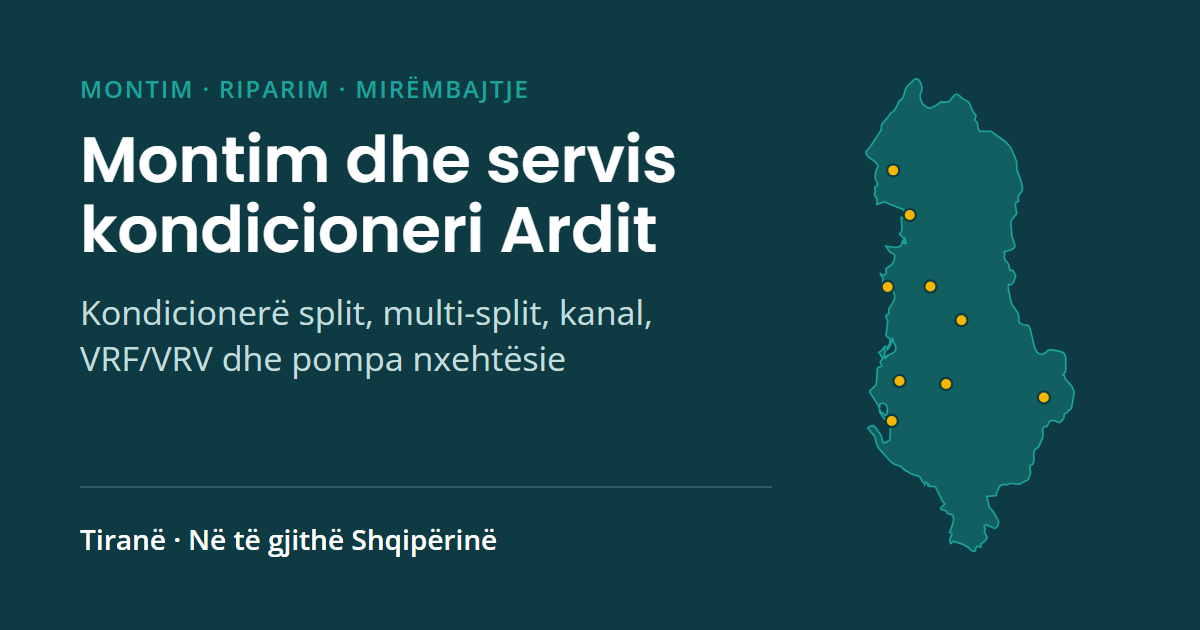
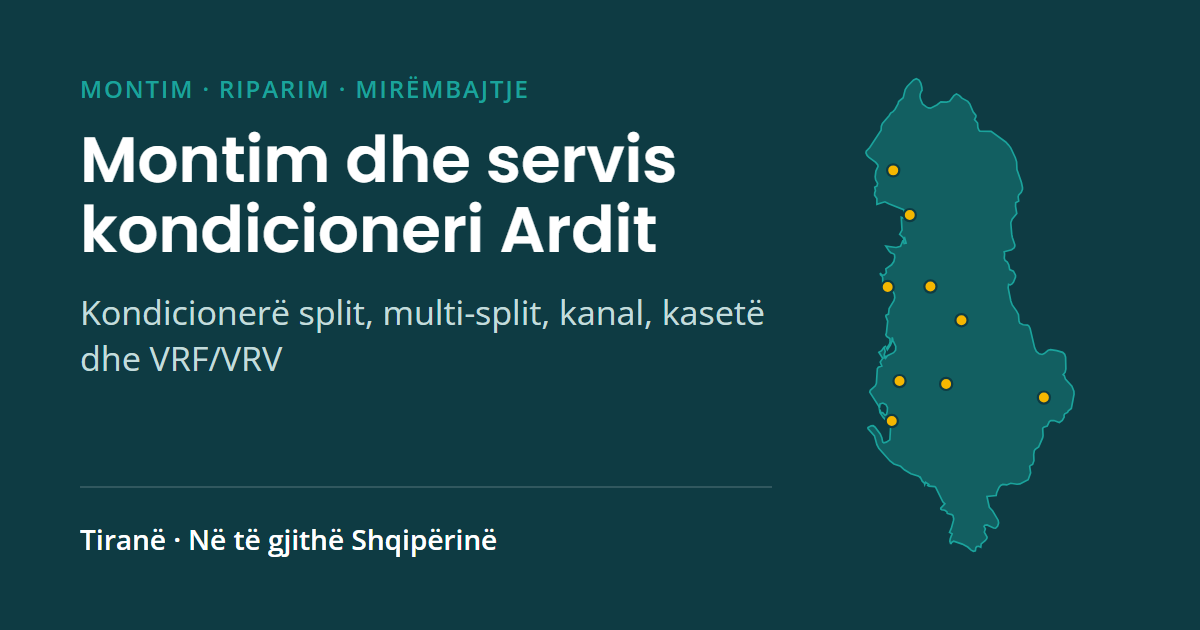
feat(sherbimet): hiqen pompat e nxehtësisë dhe kontratat e mirëmbajtjes
- Hiqen shërbimet pompa-nxehtesie dhe kontrata-mirembajtjeje-per-biznese
  me fotot shembull; mbeten 8 shërbime
- Çmimi i pastrimit mbetet te faqja e çmimeve, pa lidhje shërbimi
- Projekti shembull 6 bëhet restorant me dysheme-tavan; hiqet sistemi
  "pompë nxehtësie" nga filtrat
- Përditësohen përshkrimet e faqeve, dy artikuj dhe imazhi për ndarje

Changed region(s): [[0.0617, 0.5429, 0.4625, 0.6032], [0.555, 0.4825, 0.6475, 0.5127]]

diff --git a/src/app/data/article-html.generated.ts b/src/app/data/article-html.generated.ts
@@ -1,9 +1,9 @@
 // Gjeneruar nga scripts/build-content.ts nga src/content/keshilla/*.md. Mos e ndrysho me dorë.
 /** HTML-ja e çdo artikulli sipas slug-ut, e ngarkuar vetëm nga faqja e artikullit. */
 export const ARTICLE_HTML: Record<string, string> = {
-  "a-ia-vlen-ngrohja-me-kondicioner-ne-dimer": "<p>Një kondicioner nuk e &quot;prodhon&quot; nxehtësinë si një rezistencë: e merr nga ajri jashtë dhe e sjell brenda. Ky është parimi i pompës së nxehtësisë, dhe për këtë arsye, për të njëjtën sasi nxehtësie, harxhon zakonisht shumë më pak rrymë se një ngrohës elektrik me rezistencë.</p>\n<h2>Kur ia vlen</h2>\n<ul><li><strong>Në zonat me dimër të butë</strong>, si bregdeti dhe ultësirat, një aparat inverter i mirë ngroh me efikasitet gjatë gjithë sezonit.</li><li><strong>Kur aparati është me fuqinë e duhur.</strong> Një aparat i vogël punon gjithë kohën në maksimum dhe efikasiteti bie.</li><li><strong>Kur ambienti ka izolim të arsyeshëm.</strong> Dritaret që lënë ajër dhe muret e pa izoluara e humbin nxehtësinë pavarësisht aparatit.</li></ul>\n<h2>Kufizimet</h2>\n<p>Kur temperatura jashtë bie shumë, aparati ka më pak nxehtësi për të marrë dhe efikasiteti ulet. Në zonat malore ose me dimër të ashpër ka rëndësi të zgjidhni një model që e ruan fuqinë në temperatura të ulëta; prodhuesit e tregojnë këtë në specifikimet teknike.</p>\n<p>Gjatë dimrit aparati bën edhe cikle të shkurtra shkrirjeje të akullit në njësinë e jashtme. Është normale që për pak minuta të mos fryjë ajër të ngrohtë.</p>\n<h2>Si të zgjidhni</h2>\n<p>Shikoni vlerën <strong>SCOP</strong> (efikasiteti sezonal në ngrohje) në etiketën e energjisë dhe fuqinë në ngrohje, jo vetëm në ftohje. Për shtëpi me ngrohje qendrore ekziston edhe zgjidhja e <a href=\"/sherbimet/pompa-nxehtesie\">pompës së nxehtësisë</a> që ngroh ujin e radiatorëve.</p>\n<p>Nëse nuk jeni të sigurt, ustai e vlerëson ambientin dhe ju këshillon për modelin dhe fuqinë e duhur.</p>",
+  "a-ia-vlen-ngrohja-me-kondicioner-ne-dimer": "<p>Një kondicioner nuk e &quot;prodhon&quot; nxehtësinë si një rezistencë: e merr nga ajri jashtë dhe e sjell brenda. Ky është parimi i pompës së nxehtësisë, dhe për këtë arsye, për të njëjtën sasi nxehtësie, harxhon zakonisht shumë më pak rrymë se një ngrohës elektrik me rezistencë.</p>\n<h2>Kur ia vlen</h2>\n<ul><li><strong>Në zonat me dimër të butë</strong>, si bregdeti dhe ultësirat, një aparat inverter i mirë ngroh me efikasitet gjatë gjithë sezonit.</li><li><strong>Kur aparati është me fuqinë e duhur.</strong> Një aparat i vogël punon gjithë kohën në maksimum dhe efikasiteti bie.</li><li><strong>Kur ambienti ka izolim të arsyeshëm.</strong> Dritaret që lënë ajër dhe muret e pa izoluara e humbin nxehtësinë pavarësisht aparatit.</li></ul>\n<h2>Kufizimet</h2>\n<p>Kur temperatura jashtë bie shumë, aparati ka më pak nxehtësi për të marrë dhe efikasiteti ulet. Në zonat malore ose me dimër të ashpër ka rëndësi të zgjidhni një model që e ruan fuqinë në temperatura të ulëta; prodhuesit e tregojnë këtë në specifikimet teknike.</p>\n<p>Gjatë dimrit aparati bën edhe cikle të shkurtra shkrirjeje të akullit në njësinë e jashtme. Është normale që për pak minuta të mos fryjë ajër të ngrohtë.</p>\n<h2>Si të zgjidhni</h2>\n<p>Shikoni vlerën <strong>SCOP</strong> (efikasiteti sezonal në ngrohje) në etiketën e energjisë dhe fuqinë në ngrohje, jo vetëm në ftohje.</p>\n<p>Nëse nuk jeni të sigurt, ustai e vlerëson ambientin dhe ju këshillon për modelin dhe fuqinë e duhur.</p>",
   "kodet-e-gabimit-te-kondicioneri": "<p>Kur aparati ndalet dhe në ekran ose në kontroll shfaqet një kod si <strong>E1</strong>, <strong>H6</strong> ose <strong>F3</strong>, aparati po ju tregon se cila pjesë e sistemit ka dalë jashtë vlerave normale.</p>\n<h2>Pse i njëjti kod nuk do të thotë e njëjta gjë</h2>\n<p>Çdo prodhues ka listën e vet. I njëjti <strong>E1</strong> mund të jetë problem komunikimi mes njësive te një markë dhe sensor temperature te një tjetër. Prandaj kuptimi i saktë gjendet në manualin e modelit tuaj, jo në lista të përgjithshme në internet.</p>\n<p>Në përgjithësi, kodet ndahen në disa grupe:</p>\n<ul><li><strong>sensorët e temperaturës</strong> (në dhomë, në bateri ose në njësinë e jashtme);</li><li><strong>komunikimi</strong> mes njësisë së brendshme dhe të jashtme;</li><li><strong>mbrojtjet</strong> e kompresorit nga presioni, temperatura ose rryma;</li><li><strong>ventilatorët</strong> e njësisë së brendshme ose të jashtme;</li><li><strong>kondensata</strong>, te aparatet që kanë pompë uji.</li></ul>\n<h2>Çfarë të bëni</h2>\n<ol><li>Shënoni kodin ashtu siç shfaqet, bashkë me markën dhe modelin (shkruhen në etiketën anash njësisë).</li><li>Fikeni aparatin nga siguresa për disa minuta dhe ndizeni sërish.</li><li>Nëse kodi rikthehet, mos e rindizni vazhdimisht: disa mbrojtje e ndalin aparatin pikërisht për të shmangur dëmtimin e kompresorit.</li><li>Na dërgoni në WhatsApp foton e kodit dhe të etiketës.</li></ol>\n<p>Me kodin dhe modelin, ustai e ngushton shkakun që para se të vijë dhe sjell pjesët ose veglat e duhura. Diagnostikimi përfundimtar bëhet me matje: kodi tregon ku të kërkosh, jo gjithmonë cila pjesë është prishur.</p>",
   "pse-me-pikon-kondicioneri": "<p>Kur kondicioneri ftoh, nxjerr lagështinë nga ajri. Ky ujë mblidhet në një tabaka brenda njësisë së brendshme dhe del jashtë përmes tubit të kondensatës. Nëse uji pikon nga njësia në mur, diçka e pengon këtë rrugë.</p>\n<h2>Shkaqet më të shpeshta</h2>\n<ul><li><strong>Tubi i kondensatës pa pjerrësi të mjaftueshme.</strong> Tubi duhet të ketë rënie të vazhdueshme deri në dalje. Nëse ngrihet diku, uji ndalet dhe kthehet mbrapsht.</li><li><strong>Tubi ose tabakaja e bllokuar.</strong> Pluhuri, myku dhe insektet formojnë një shtresë që e mbyll daljen, sidomos pas disa sezonesh pa pastrim.</li><li><strong>Filtrat shumë të ndotur.</strong> Ajri kalon me vështirësi, bateria ftohet tepër, formohet akull dhe kur shkrin, uji del jashtë tabakasë.</li><li><strong>Njësia e brendshme jo në nivel.</strong> Një animi i vogël mjafton që uji të derdhet nga ana e gabuar e tabakasë.</li><li><strong>Mungesë gazi.</strong> Me më pak gaz, bateria ngrin. Akulli shkrin kur aparati fiket dhe uji kalon tabakanë.</li></ul>\n<h2>Çfarë mund të bëni vetë</h2>\n<ol><li>Fikeni aparatin dhe mbroni murin dhe dyshemenë nga uji.</li><li>Pastroni filtrat me ujë të vakët dhe lërini të thahen para se t’i vendosni.</li><li>Kontrolloni nëse del ujë nga fundi i tubit të kondensatës kur aparati punon.</li></ol>\n<p>Nëse pas pastrimit të filtrave aparati vazhdon të pikojë, problemi është zakonisht te kondensata, te pozicioni i njësisë ose te gazi. Këto kërkojnë vegla dhe matje.</p>\n<blockquote><p>Mos e lini një kondicioner që pikon të punojë për ditë të tëra: uji dëmton suvanë, parketin dhe mund të arrijë te lidhjet elektrike.</p></blockquote>\n<h2>Si e zgjidh ustai</h2>\n<p>Ustai kontrollon pjerrësinë dhe pastron tubin e kondensatës, pastron tabakanë dhe baterinë, kontrollon nivelin e njësisë dhe, nëse ka shenja akulli, mat presionet për të parë nëse mungon gaz. Në një montim të ri, tubi i kondensatës vendoset që në fillim me rënien e duhur: është një nga <a href=\"/standardet-e-montimit\">standardet tona të montimit</a>.</p>",
   "pse-nuk-ftoh-mire-kondicioneri": "<p>Një kondicioner që punon gjithë ditën dhe dhoma mbetet e ngrohtë ka gjithmonë një shkak. Disa i kontrolloni vetë në pak minuta, të tjerët kërkojnë matje.</p>\n<h2>Kontrollet e para</h2>\n<ul><li><strong>Modaliteti dhe temperatura.</strong> Sigurohuni që aparati është në ftohje (ikona e borës) dhe jo në ventilim ose &quot;auto&quot;.</li><li><strong>Filtrat.</strong> Filtrat e zënë nga pluhuri e ulin shumë sasinë e ajrit. Pastrojini dhe provoni sërish.</li><li><strong>Dyert dhe dritaret.</strong> Një derë e hapur drejt një ambienti tjetër e shumëfishon ngarkesën.</li></ul>\n<h2>Shkaqet që kërkojnë ustain</h2>\n<ul><li><strong>Mungesë gazi.</strong> Gazi nuk harxhohet: nëse mungon, ka rrjedhje. Shenjat janë ajri jo mjaft i ftohtë dhe akulli në tubat e njësisë së jashtme.</li><li><strong>Njësia e jashtme e ndotur ose pa ajrim.</strong> Kondensatori i mbuluar me pluhur ose gjethe, ose i vendosur në një kënd pa qarkullim ajri, nuk e nxjerr dot nxehtësinë.</li><li><strong>Ventilator ose kondensator elektrik me defekt.</strong> Aparati mund të ndizet, por kompresori ose ventilatori nuk punojnë si duhet.</li><li><strong>Fuqi e vogël për ambientin.</strong> Një aparat 9000 BTU në një sallë me shumë diell nuk e arrin dot temperaturën, sado mirë të punojë. Provoni <a href=\"/si-te-zgjidhni-kondicionerin\">kalkulatorin BTU</a> për një vlerë orientuese.</li></ul>\n<h2>Pse ka rëndësi diagnostikimi me matje</h2>\n<p>Rimbushja e gazit &quot;sa për të provuar&quot; është shpesh para e humbur: nëse rrjedhja nuk riparohet, gazi del sërish. Me manometra dhe termometra ustai sheh presionet, temperaturat dhe rrymën, dhe e gjen shkakun para se të ndërrojë ndonjë pjesë.</p>",
-  "sa-shpesh-duhet-pastruar-kondicioneri": "<p>Pastrimi nuk është vetëm çështje higjiene. Një aparat i pastër ftoh dhe ngroh më shpejt, harxhon më pak energji dhe zgjat më shumë.</p>\n<h2>Çfarë pastroni vetë</h2>\n<p><strong>Filtrat e njësisë së brendshme</strong>, çdo disa javë kur aparati punon shpesh. Hapni kapakun e përparmë, nxirrni filtrat, lajini me ujë të vakët (pa detergjent të fortë) dhe lërini të thahen plotësisht para se t’i vendosni. Mos e ndizni aparatin pa filtra.</p>\n<h2>Çfarë pastron ustai</h2>\n<p>Të paktën një herë në vit, mirë është para sezonit të verës:</p>\n<ul><li>bateria e njësisë së brendshme dhe ventilatori cilindrik, ku mblidhet myku që shkakton erën e keqe;</li><li>tabakaja dhe tubi i kondensatës, që aparati të mos pikojë;</li><li>njësia e jashtme, që të nxjerrë nxehtësinë pa pengesë;</li><li>kontrolli i lidhjeve elektrike dhe matja e presioneve.</li></ul>\n<p>Në restorante, dyqane me pluhur ose ambiente ku aparati punon gjithë ditën, pastrimi i plotë duhet më shpesh. Për bizneset ia vlen një <a href=\"/sherbimet/kontrata-mirembajtjeje-per-biznese\">plan mirëmbajtjeje</a>.</p>\n<h2>Shenjat që aparati ka nevojë për pastrim</h2>\n<ul><li>erë e rëndë ose myk kur ndizet;</li><li>ajër më i dobët se zakonisht;</li><li>pika uji nga njësia e brendshme;</li><li>zhurmë më e lartë nga ventilatori.</li></ul>\n<blockquote><p>Spërkatësit &quot;pastrues&quot; që shiten në dyqan nuk e zëvendësojnë pastrimin e plotë: e lagin baterinë, por papastërtia mbetet te ventilatori dhe te kondensata.</p></blockquote>"
+  "sa-shpesh-duhet-pastruar-kondicioneri": "<p>Pastrimi nuk është vetëm çështje higjiene. Një aparat i pastër ftoh dhe ngroh më shpejt, harxhon më pak energji dhe zgjat më shumë.</p>\n<h2>Çfarë pastroni vetë</h2>\n<p><strong>Filtrat e njësisë së brendshme</strong>, çdo disa javë kur aparati punon shpesh. Hapni kapakun e përparmë, nxirrni filtrat, lajini me ujë të vakët (pa detergjent të fortë) dhe lërini të thahen plotësisht para se t’i vendosni. Mos e ndizni aparatin pa filtra.</p>\n<h2>Çfarë pastron ustai</h2>\n<p>Të paktën një herë në vit, mirë është para sezonit të verës:</p>\n<ul><li>bateria e njësisë së brendshme dhe ventilatori cilindrik, ku mblidhet myku që shkakton erën e keqe;</li><li>tabakaja dhe tubi i kondensatës, që aparati të mos pikojë;</li><li>njësia e jashtme, që të nxjerrë nxehtësinë pa pengesë;</li><li>kontrolli i lidhjeve elektrike dhe matja e presioneve.</li></ul>\n<p>Në restorante, dyqane me pluhur ose ambiente ku aparati punon gjithë ditën, pastrimi i plotë duhet më shpesh.</p>\n<h2>Shenjat që aparati ka nevojë për pastrim</h2>\n<ul><li>erë e rëndë ose myk kur ndizet;</li><li>ajër më i dobët se zakonisht;</li><li>pika uji nga njësia e brendshme;</li><li>zhurmë më e lartë nga ventilatori.</li></ul>\n<blockquote><p>Spërkatësit &quot;pastrues&quot; që shiten në dyqan nuk e zëvendësojnë pastrimin e plotë: e lagin baterinë, por papastërtia mbetet te ventilatori dhe te kondensata.</p></blockquote>"
 };

diff --git a/src/app/data/services.ts b/src/app/data/services.ts
@@ -201,44 +201,6 @@ export const SERVICES: Service[] = [
     },
   },
   {
-    slug: 'pompa-nxehtesie',
-    title: 'Pompa nxehtësie',
-    short:
-      'Ngrohje efikase për dimrin, me pompë nxehtësie të zgjedhur dhe të montuar sipas ndërtesës.',
-    icon: 'temperature-sun',
-    intro:
-      'Pompa e nxehtësisë merr nxehtësinë nga ajri jashtë dhe e sjell brenda, me shumë më pak energji se ngrohja me rezistencë. Zgjedhja e fuqisë dhe montimi i saktë vendosin sa mirë ngroh në ditët më të ftohta.',
-    includes: [
-      'Vlerësimi i ndërtesës dhe i nevojës për ngrohje',
-      'Zgjedhja e pompës dhe e fuqisë sipas klimës së zonës',
-      'Montimi i njësisë së jashtme dhe lidhjet me sistemin e ngrohjes',
-      'Mbushja, testimi dhe rregullimi i temperaturave',
-      'Shpjegim i përdorimit dhe i mirëmbajtjes',
-    ],
-    audience: [
-      'Shtëpi dhe vila me ngrohje qendrore',
-      'Ndërtime të reja',
-      'Biznese që duan të ulin koston e ngrohjes',
-    ],
-    duration: null,
-    photos: servicePlaceholders('pompa-nxehtesie', 'Pompa nxehtësie'), // TODO: foto shembull, zëvendësohet me foton reale
-    faq: [
-      {
-        q: 'A ngroh pompa e nxehtësisë kur jashtë bën ftohtë?',
-        a: 'Po, por efikasiteti bie kur temperatura ulet. Prandaj fuqia zgjidhet sipas temperaturave më të ulëta të zonës suaj, jo sipas mesatares.',
-      },
-      {
-        q: 'A mund të përdoret me radiatorët ekzistues?',
-        a: 'Shpesh po, por radiatorët duhet të jenë të mjaftueshëm për të punuar me ujë më pak të nxehtë. Ustai e vlerëson këtë gjatë inspektimit.',
-      },
-    ],
-    seo: {
-      title: 'Pompa nxehtësie: zgjedhje dhe montim',
-      description:
-        'Ngrohje me pompë nxehtësie për shtëpi, vila dhe biznese: vlerësimi i ndërtesës, zgjedhja e fuqisë sipas klimës, montim dhe testim.',
-    },
-  },
-  {
     slug: 'diagnostikim-dhe-riparim',
     title: 'Diagnostikim dhe riparim',
     short:
@@ -353,47 +315,6 @@ export const SERVICES: Service[] = [
       title: 'Çmontim dhe zhvendosje kondicioneri',
       description:
         'Zhvendosje kondicioneri pa humbur gazin: pump-down, çmontim i kujdesshëm, rimontim, vakumim dhe testim në banesën ose zyrën e re.',
-    },
-  },
-  {
-    slug: 'kontrata-mirembajtjeje-per-biznese',
-    title: 'Kontrata mirëmbajtjeje për biznese',
-    short:
-      'Pastrim dhe kontroll periodik për zyra, dyqane dhe hotele, sipas një plani vjetor të rënë dakord.',
-    icon: 'calendar-check',
-    intro:
-      'Për një biznes, një kondicioner i ndalur do të thotë klientë ose punonjës të pakënaqur. Me mirëmbajtje të planifikuar, problemet kapen herët dhe aparatet harxhojnë më pak energji.',
-    includes: [
-      'Plan vizitash i rënë dakord paraprakisht',
-      'Pastrim i filtrave, baterive dhe kondensatës',
-      'Kontroll i presioneve, rrymës dhe lidhjeve elektrike',
-      'Shënim i gjendjes së çdo aparati pas vizitës',
-      'Këshilla për riparimet ose zëvendësimet e nevojshme',
-    ],
-    audience: [
-      'Zyra dhe ndërtesa administrative',
-      'Dyqane, restorante dhe bare',
-      'Hotele, klinika dhe ambiente publike',
-    ],
-    duration: null,
-    photos: servicePlaceholders(
-      'kontrata-mirembajtjeje-per-biznese',
-      'Kontrata mirëmbajtjeje për biznese',
-    ), // TODO: foto shembull, zëvendësohet me foton reale
-    faq: [
-      {
-        q: 'Sa shpesh bëhen vizitat?',
-        a: 'Varet nga lloji i ambientit dhe sa punojnë aparatet. Zakonisht para sezonit të verës dhe të dimrit, më shpesh për restorante dhe ambiente me pluhur.',
-      },
-      {
-        q: 'A përfshihen riparimet në kontratë?',
-        a: 'Kjo përcaktohet në kontratë. Ustai ju propozon një plan të qartë: çfarë përfshihet në çdo vizitë dhe çfarë llogaritet veçmas.',
-      },
-    ],
-    seo: {
-      title: 'Mirëmbajtje kondicionerësh për biznese',
-      description:
-        'Kontrata mirëmbajtjeje për zyra, dyqane, restorante dhe hotele: pastrim dhe kontroll periodik sipas një plani vjetor të rënë dakord.',
     },
   },
 ];

diff --git a/src/app/app.routes.ts b/src/app/app.routes.ts
@@ -105,7 +105,7 @@ export const routes: Routes = [
       seo: {
         title: 'Montim dhe riparim kondicioneri',
         description:
-          'Montim, riparim dhe mirëmbajtje për çdo sistem kondicionimi: split, multi-split, kanal, VRF/VRV dhe pompa nxehtësie, në Tiranë, Durrës e më gjerë.',
+          'Montim, riparim dhe mirëmbajtje për çdo sistem kondicionimi: split, multi-split, kanal, kasetë dhe VRF/VRV, në Tiranë, Durrës e më gjerë.',
       } satisfies RouteSeo,
     },
   },
@@ -116,7 +116,7 @@ export const routes: Routes = [
       seo: {
         title: 'Shërbimet e kondicionimit',
         description:
-          'Konsulencë, montim split dhe multi-split, sisteme me kanale, VRF/VRV, pompa nxehtësie, riparim, rimbushje gazi dhe kontrata mirëmbajtjeje.',
+          'Konsulencë, montim split dhe multi-split, sisteme me kanale, VRF/VRV, riparim, rimbushje gazi, çmontim dhe zhvendosje.',
       } satisfies RouteSeo,
     },
   },

diff --git a/src/app/data/projects.ts b/src/app/data/projects.ts
@@ -121,14 +121,14 @@ function exampleProjects(): Project[] {
       after: 'kaseta e montuar në tavan',
     }),
     example(6, {
-      title: 'shtëpi me pompë nxehtësie',
+      title: 'restorant me dysheme-tavan',
       city: 'lezhe',
-      system: 'pompe-nxehtesie',
-      services: ['pompa-nxehtesie'],
+      system: 'dysheme-tavan',
+      services: ['sisteme-me-kanale-dhe-dysheme-tavan'],
       featured: false,
-      place: 'shtëpia',
-      before: 'dhoma teknike para instalimit',
-      after: 'pompa e nxehtësisë e instaluar',
+      place: 'restoranti',
+      before: 'salla e restorantit para montimit',
+      after: 'njësia dysheme-tavan e montuar në sallë',
     }),
   ];
 }
@@ -140,7 +140,6 @@ export const SYSTEM_LABELS: Record<SystemKind, string> = {
   kasete: 'Kasetë',
   'dysheme-tavan': 'Dysheme-tavan',
   vrf: 'VRF/VRV',
-  'pompe-nxehtesie': 'Pompë nxehtësie',
 };
 
 /** Më të rejat të parat. */

diff --git a/src/app/data/types.ts b/src/app/data/types.ts
@@ -100,8 +100,8 @@ export interface Price {
   /** Çmimi "duke filluar nga". null = nuk shfaqet. */
   from: number | null;
   currency: 'ALL' | 'EUR';
-  /** Shërbimi ku shfaqet çmimi. */
-  serviceSlug: string;
+  /** Shërbimi ku shfaqet çmimi; null = vetëm te faqja e çmimeve, pa lidhje. */
+  serviceSlug: string | null;
   /** Çfarë përfshin çmimi, me pak fjalë. */
   note: string;
 }
@@ -148,8 +148,7 @@ export interface Brand {
 }
 
 /** Lloji i sistemit për filtrat e projekteve. */
-export type SystemKind =
-  'split' | 'multi-split' | 'kanal' | 'kasete' | 'dysheme-tavan' | 'vrf' | 'pompe-nxehtesie';
+export type SystemKind = 'split' | 'multi-split' | 'kanal' | 'kasete' | 'dysheme-tavan' | 'vrf';
 
 export interface ProjectVideo {
   platform: 'youtube' | 'instagram' | 'tiktok';

diff --git a/src/app/data/articles.generated.ts b/src/app/data/articles.generated.ts
@@ -8,7 +8,6 @@ export const ARTICLES: Article[] = [
     "description": "Si ngroh një kondicioner inverter, kur është më ekonomik se ngrohësit elektrikë dhe çfarë të kontrolloni nëse jetoni në një zonë të ftohtë.",
     "date": "2026-11-05",
     "services": [
-      "pompa-nxehtesie",
       "konsulence-dhe-zgjedhja-e-sistemit"
     ],
     "readingMinutes": 2
@@ -51,7 +50,6 @@ export const ARTICLES: Article[] = [
     "description": "Çfarë pastroni vetë dhe çfarë pastron ustai, sa shpesh, dhe pse pastrimi i rregullt ul konsumin dhe parandalon erërat dhe defektet.",
     "date": "2026-11-05",
     "services": [
-      "kontrata-mirembajtjeje-per-biznese",
       "diagnostikim-dhe-riparim"
     ],
     "readingMinutes": 2

diff --git a/src/app/features/services/service-page.spec.ts b/src/app/features/services/service-page.spec.ts
@@ -33,10 +33,10 @@ describe('ServicePage', () => {
   });
 
   it('butoni WhatsApp parazgjedh shërbimin', async () => {
-    const el = await render('pompa-nxehtesie');
+    const el = await render('sisteme-vrf-vrv');
     const flow = TestBed.inject(WhatsAppFlow);
     el.querySelector<HTMLButtonElement>('.actions button')?.click();
-    expect(flow.request()).toEqual({ source: 'sherbimi', service: 'pompa-nxehtesie' });
+    expect(flow.request()).toEqual({ source: 'sherbimi', service: 'sisteme-vrf-vrv' });
   });
 
   it('slug i panjohur shfaq faqen 404', async () => {

diff --git a/src/app/data/services.spec.ts b/src/app/data/services.spec.ts
@@ -3,8 +3,8 @@ import { slugify } from '../shared/utils/slugify';
 import { SERVICES } from './services';
 
 describe('SERVICES', () => {
-  it('ka 10 shërbime me slug unik dhe pa ë/ç', () => {
-    expect(SERVICES).toHaveLength(10);
+  it('ka 8 shërbime me slug unik dhe pa ë/ç', () => {
+    expect(SERVICES).toHaveLength(8);
     const slugs = SERVICES.map((s) => s.slug);
     expect(new Set(slugs).size).toBe(slugs.length);
     for (const slug of slugs) expect(slug).toBe(slugify(slug));

diff --git a/scripts/build-og.ts b/scripts/build-og.ts
@@ -57,7 +57,7 @@ const html = `<!doctype html>
     <div class="text">
       <div class="eyebrow">Montim · Riparim · Mirëmbajtje</div>
       <h1>${businessName()}</h1>
-      <p>Kondicionerë split, multi-split, kanal, VRF/VRV dhe pompa nxehtësie</p>
+      <p>Kondicionerë split, multi-split, kanal, kasetë dhe VRF/VRV</p>
       <div class="cities">${area}</div>
     </div>
     <svg viewBox="0 0 ${ALBANIA_MAP.width} ${ALBANIA_MAP.height}" aria-hidden="true">

diff --git a/src/app/features/prices/prices-page.ts b/src/app/features/prices/prices-page.ts
@@ -30,7 +30,7 @@ export class PricesPage {
   protected readonly prices = PRICES.filter((x) => x.from !== null).map((x) => ({
     ...x,
     amount: formatPrice(x.from ?? 0, x.currency),
-    service: serviceBySlug(x.serviceSlug),
+    service: x.serviceSlug ? serviceBySlug(x.serviceSlug) : undefined,
   }));
   protected readonly w = PRICE_PAGE.warranty;
   protected readonly hasWarranty = !!(this.w.duration || this.w.covers.length);

diff --git a/src/app/data/prices.ts b/src/app/data/prices.ts
@@ -13,7 +13,7 @@ export const PRICES: Price[] = [
     label: 'Pastrim i plotë i kondicionerit',
     from: 150, // TODO: çmim shembull, vendos çmimin real
     currency: 'EUR',
-    serviceSlug: 'kontrata-mirembajtjeje-per-biznese',
+    serviceSlug: null,
     note: 'Filtrat, bateritë, ventilatori dhe kondensata.', // TODO: konfirmo çfarë përfshin
   },
   {

diff --git a/src/content/keshilla/a-ia-vlen-ngrohja-me-kondicioner-ne-dimer.md b/src/content/keshilla/a-ia-vlen-ngrohja-me-kondicioner-ne-dimer.md
@@ -2,7 +2,7 @@
 title: A ia vlen ngrohja me kondicioner në dimër?
 description: Si ngroh një kondicioner inverter, kur është më ekonomik se ngrohësit elektrikë dhe çfarë të kontrolloni nëse jetoni në një zonë të ftohtë.
 date: 2026-11-05
-services: pompa-nxehtesie, konsulence-dhe-zgjedhja-e-sistemit
+services: konsulence-dhe-zgjedhja-e-sistemit
 ---
 
 <!-- TODO: rishikim nga ustai para publikimit -->
@@ -23,6 +23,6 @@ Gjatë dimrit aparati bën edhe cikle të shkurtra shkrirjeje të akullit në nj
 
 ## Si të zgjidhni
 
-Shikoni vlerën **SCOP** (efikasiteti sezonal në ngrohje) në etiketën e energjisë dhe fuqinë në ngrohje, jo vetëm në ftohje. Për shtëpi me ngrohje qendrore ekziston edhe zgjidhja e [pompës së nxehtësisë](/sherbimet/pompa-nxehtesie) që ngroh ujin e radiatorëve.
+Shikoni vlerën **SCOP** (efikasiteti sezonal në ngrohje) në etiketën e energjisë dhe fuqinë në ngrohje, jo vetëm në ftohje.
 
 Nëse nuk jeni të sigurt, ustai e vlerëson ambientin dhe ju këshillon për modelin dhe fuqinë e duhur.
